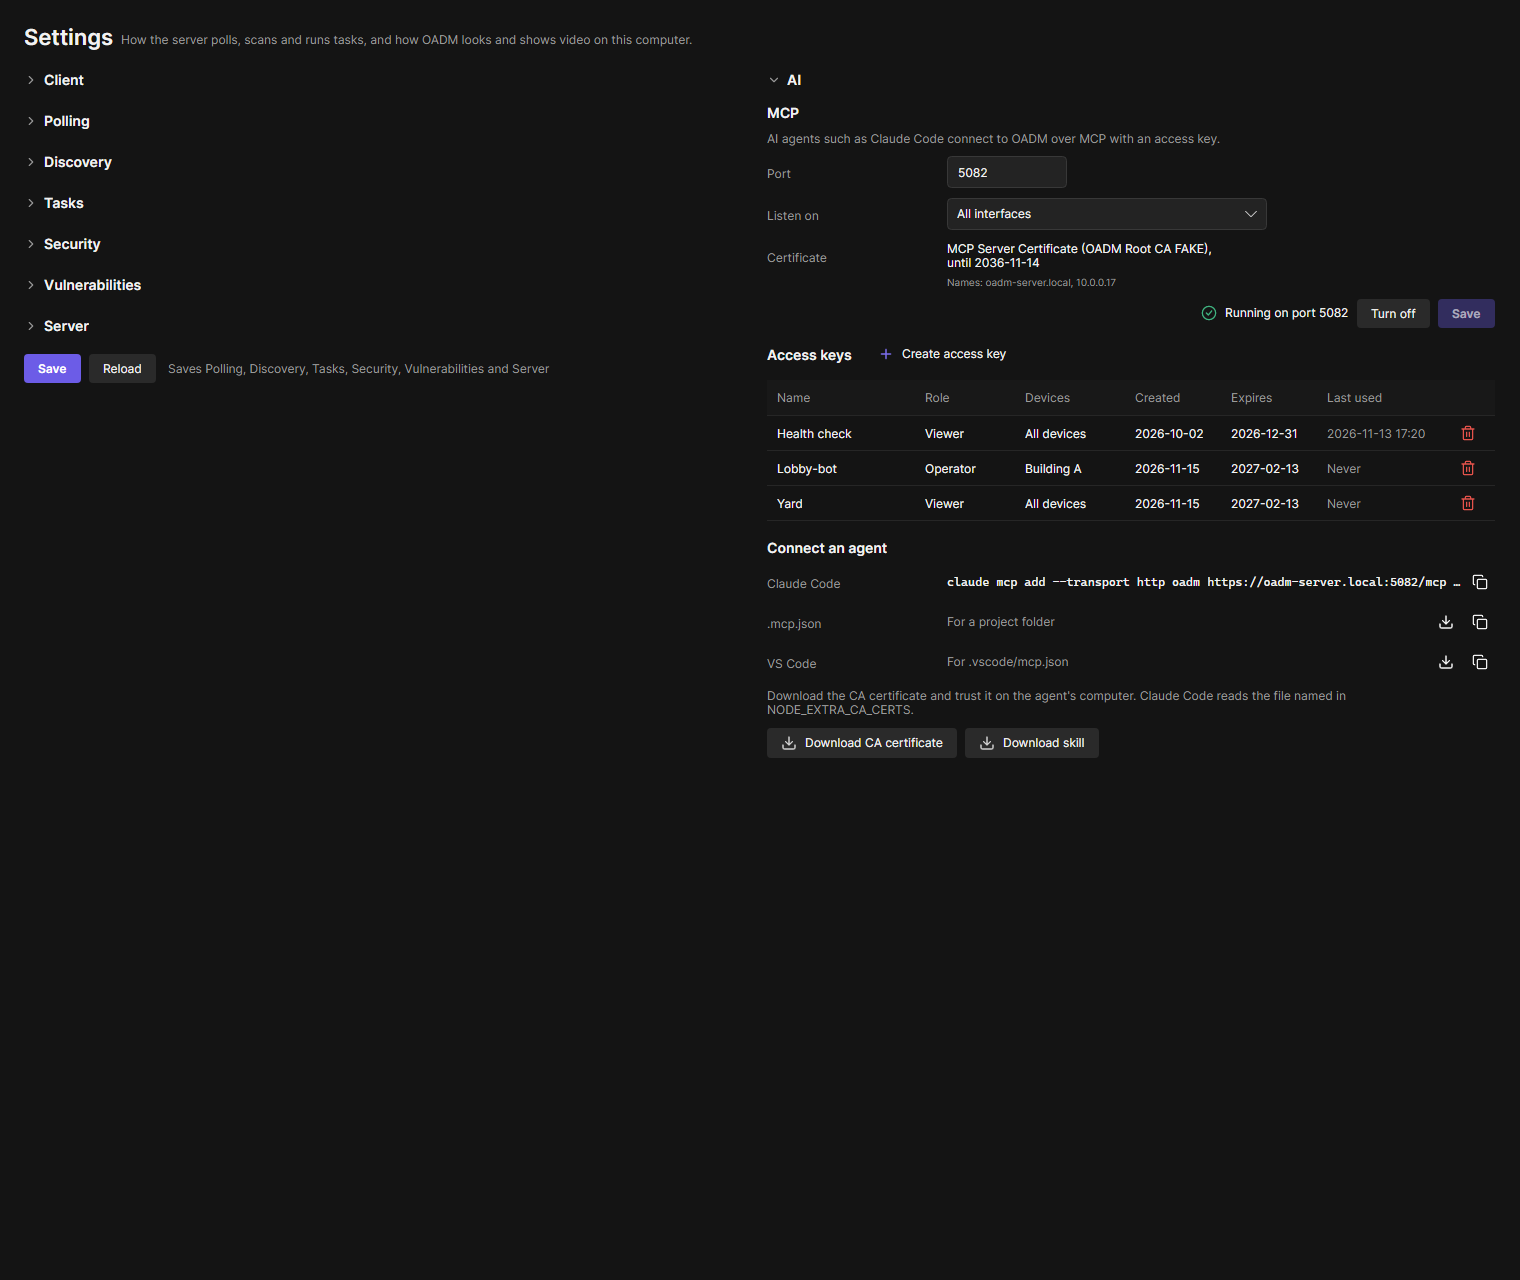
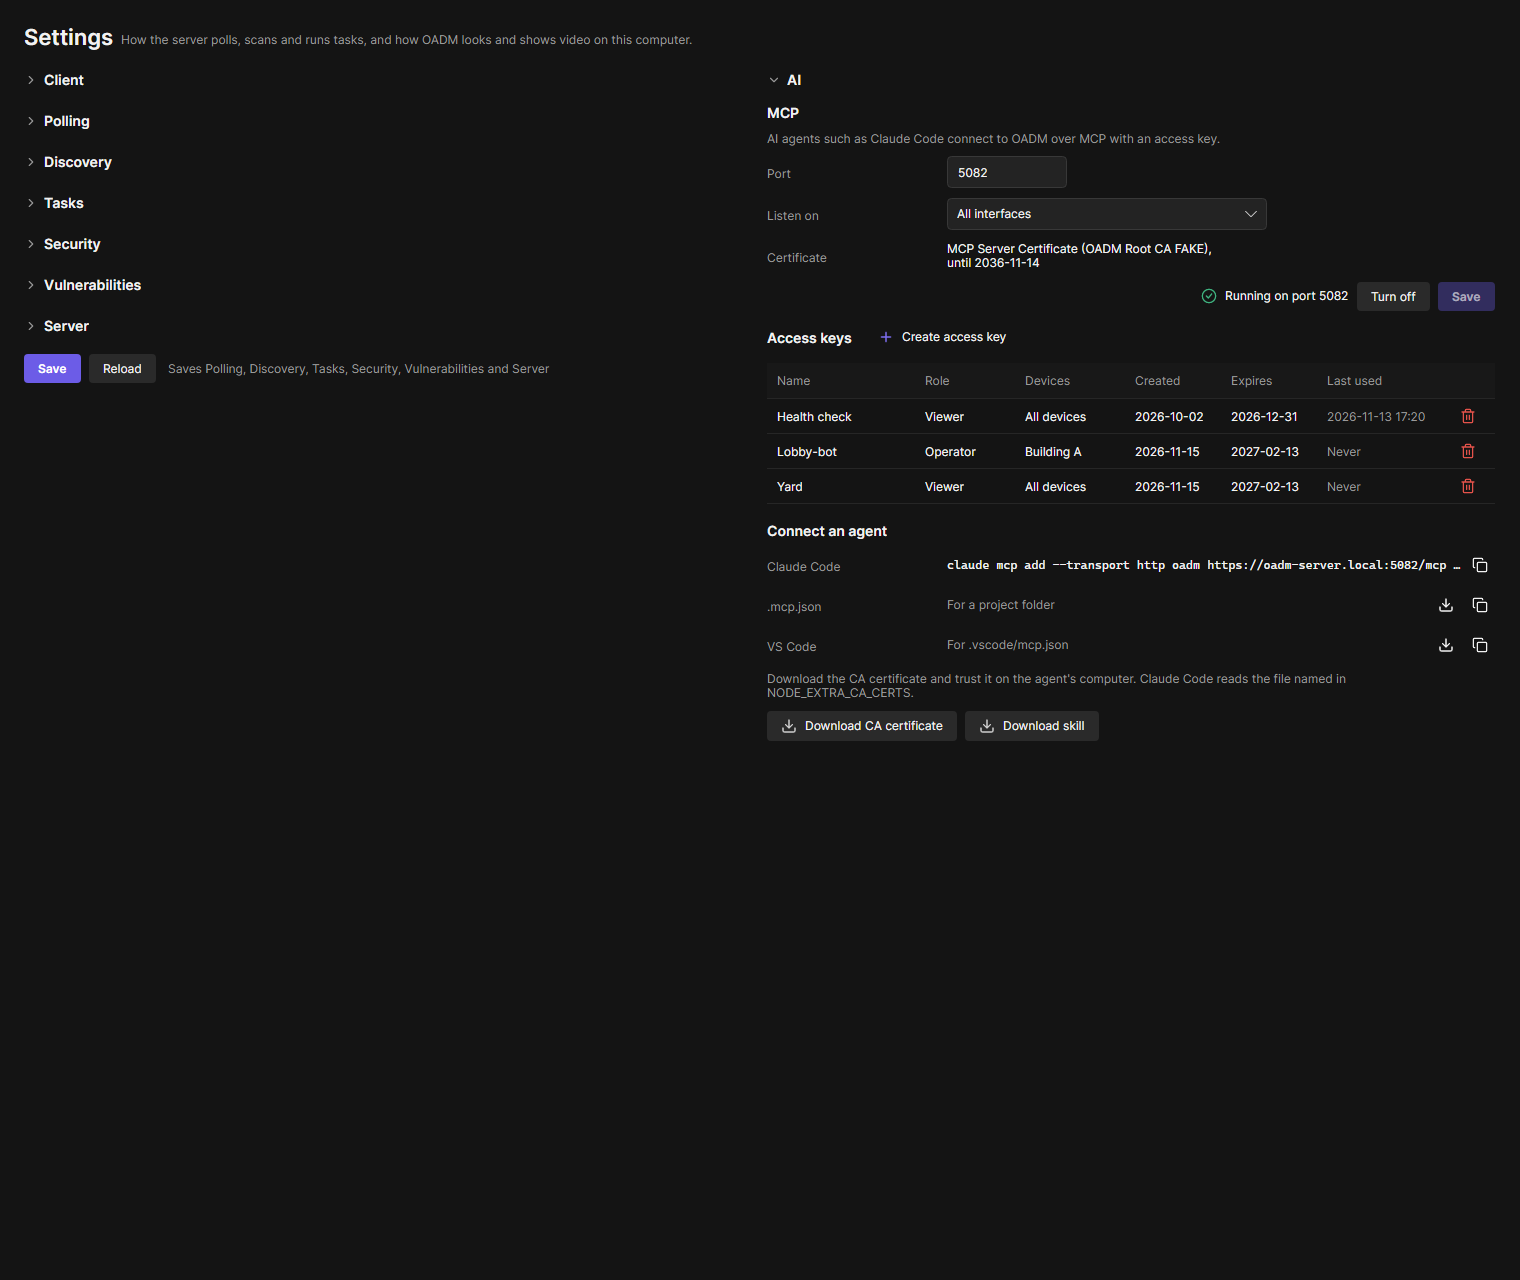
feat(client): the MCP section shows the certificate without its names

diff --git a/src/Oadm.Client/Settings/AiAgentsViewModel.cs b/src/Oadm.Client/Settings/AiAgentsViewModel.cs
@@ -121,9 +121,6 @@ public sealed partial class AiAgentsViewModel : ValidatingViewModel
         : _state.Settings.Enabled ? NoCertificate
         : ChooseCertificate;
 
-    /// <summary>The names the certificate holds (agents connect with one of them).</summary>
-    public string? CertificateHint => _state is { CertificateNames.Count: > 0 } state ? "Names: " + string.Join(", ", state.CertificateNames) : null;
-
     /// <summary>Listen on as plain text (users who read the card).</summary>
     public string ListenText => Listen.Selected?.Label ?? InterfaceOptions.AllLabel;
 
@@ -316,7 +313,6 @@ public sealed partial class AiAgentsViewModel : ValidatingViewModel
         OnPropertyChanged(nameof(StatusText));
         OnPropertyChanged(nameof(HasProblem));
         OnPropertyChanged(nameof(CertificateText));
-        OnPropertyChanged(nameof(CertificateHint));
         OnPropertyChanged(nameof(ListenText));
         OnPropertyChanged(nameof(CanDownloadCa));
         OnPropertyChanged(nameof(Connections));

diff --git a/tests/Oadm.Client.Tests/AiAgentsTests.cs b/tests/Oadm.Client.Tests/AiAgentsTests.cs
@@ -57,7 +57,6 @@ public sealed class AiAgentsTests
 
         await card.TurnOnCommand.ExecuteAsync(null);
         Assert.Equal("MCP Server Certificate (OADM Root CA FAKE), until 2036-11-14", card.CertificateText);
-        Assert.Equal("Names: oadm-server.local, 10.0.0.17", card.CertificateHint);
         Assert.True(card.Running);
         Assert.Equal("Running on port 5082", card.StatusText);
         Assert.True(card.ShowTurnOff);
